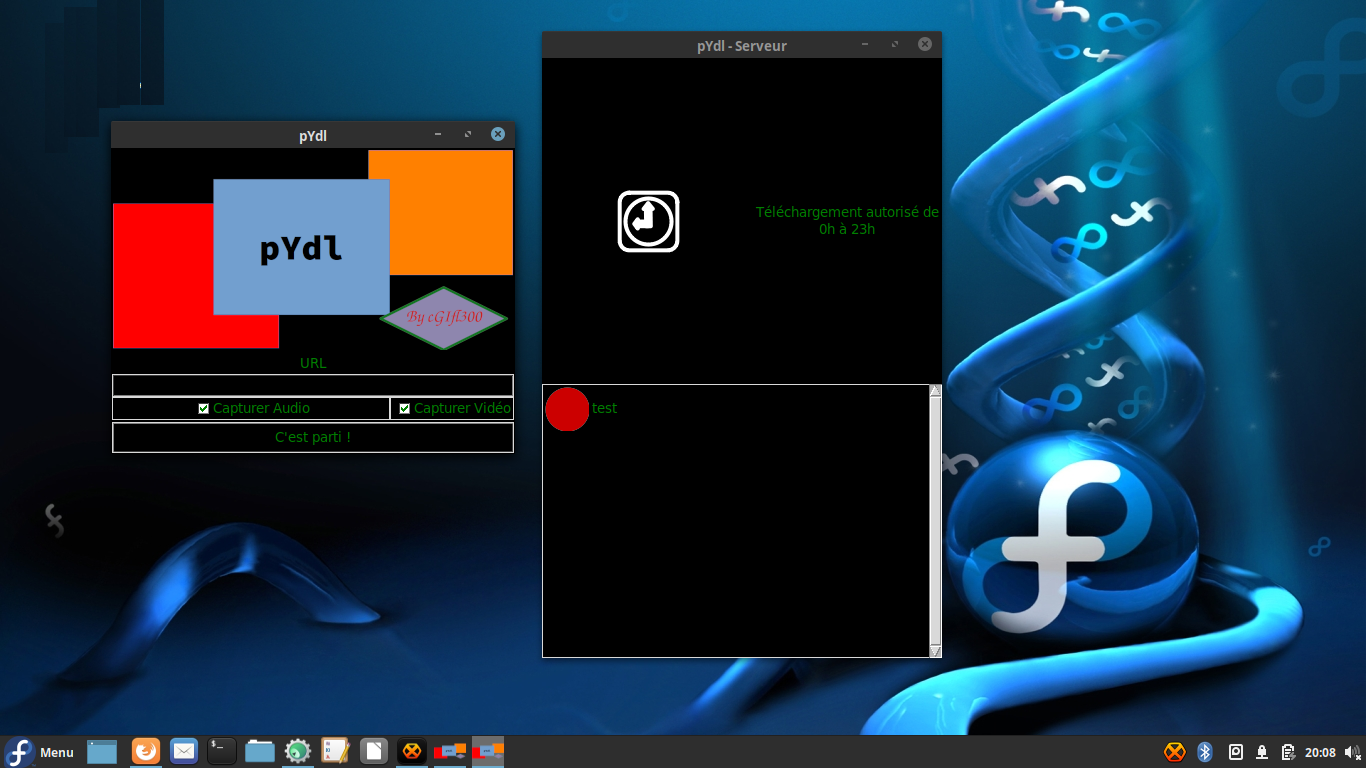
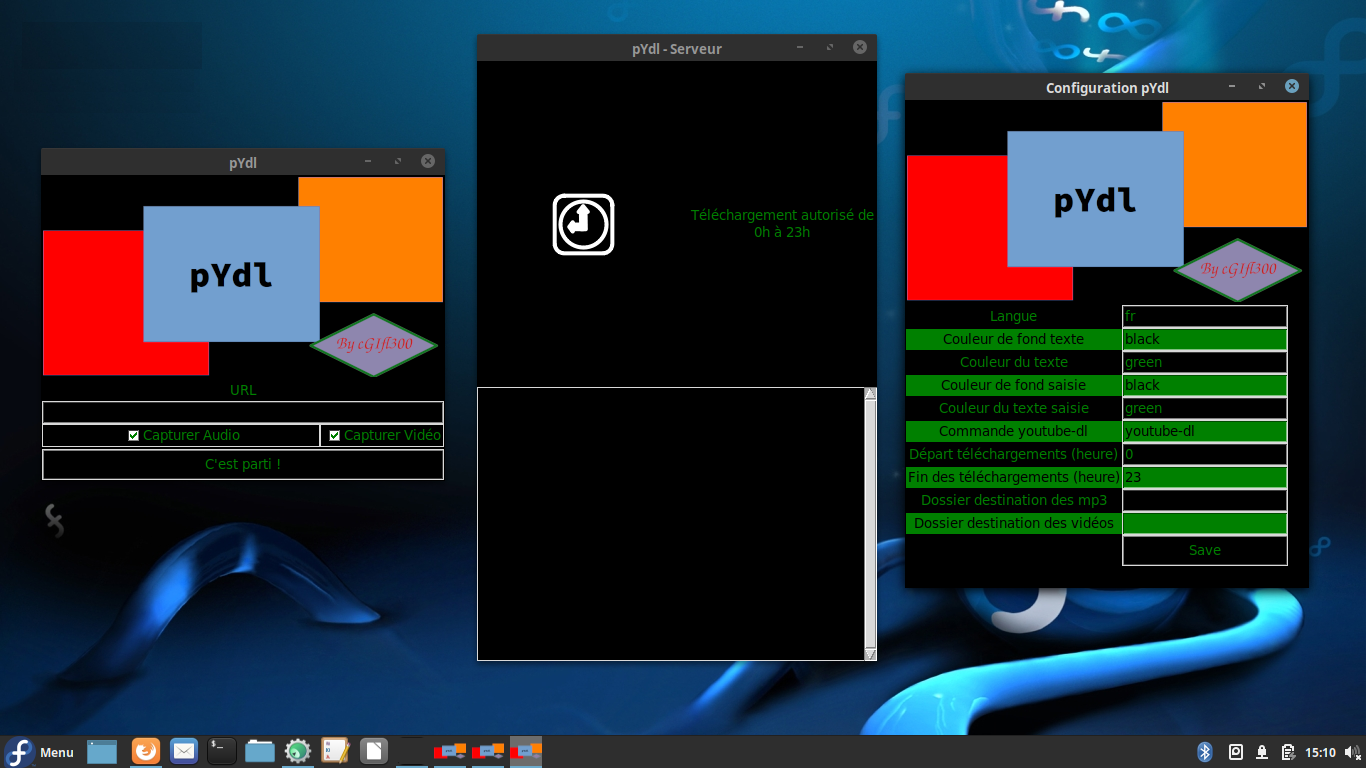
Setup GUI done

diff --git a/dl_queue.py b/dl_queue.py
@@ -31,6 +31,7 @@ from image_set import image_set
 from class_dl import dl
 import time
 from threading import Thread
+from setup_gui import Setup_GUI
 
 fr = gettext.translation("base", localedir=repertoire_script + "locales", languages=[langue_appli], fallback=False)
 fr.install()
@@ -80,6 +81,11 @@ class dl_queue(Toplevel):
         """
 
         self.panel_002.bind("<Configure>", self.onFrameConfigure)
+        self.top_time.btn.bind("<Button-1>", self.do_Setup)
+        
+    def do_Setup(self, event):
+        app = Setup_GUI()
+        app.run()
 
     def onFrameConfigure(self, event):
         """Reset the scroll region to encompass the inner frame"""

diff --git a/setup_gui.py b/setup_gui.py
@@ -141,6 +141,8 @@ class Setup_GUI(Toplevel):
             
         with open(f"{repertoire_script}data{os.sep}setup.ini", 'w') as configfile:    
             self.configuration.write(configfile)
+            
+        self.destroy()
 
     def run(self):
         self.interface()

diff --git a/README.md b/README.md
@@ -8,6 +8,9 @@ A frontend to youtube-dl.
 
 Perfect to backup videos or music you forgot on your old youtube account.  
 
+## Setup
+
+Just click on the clock to setup commun options.
 
 ## data/setup.ini
 
